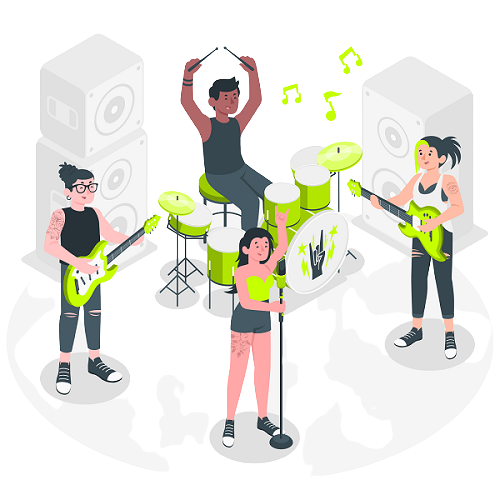
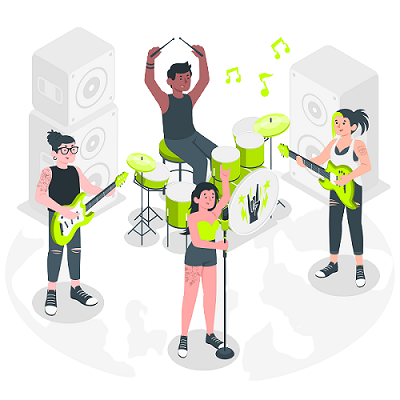
header section done

diff --git a/scss/main.css b/scss/main.css
@@ -81,7 +81,6 @@ a:hover {
 }
 .header-hero .header_hero_text {
   height: 80vh;
-  background: black;
   display: flex;
   justify-content: center;
   align-items: flex-start;
@@ -89,7 +88,7 @@ a:hover {
 }
 .header-hero .header_hero_text h2 {
   color: #fff;
-  font-size: 7rem;
+  font-size: 6.2rem;
   margin-bottom: 3rem;
   line-height: 150%;
   font-weight: 600;
@@ -139,4 +138,23 @@ a:hover {
   box-shadow: 0rem 1.5rem 2rem rgba(255, 255, 157, 0.4);
   color: #0a183d;
   transform: translateY(-0.7rem);
+}
+.header-hero .header_hero_img {
+  height: 77vh;
+  display: flex;
+  justify-content: center;
+  align-items: flex-end;
+  flex-direction: column;
+  animation: animation_hero 10s linear infinite alternate;
+}
+@keyframes animation_hero {
+  from {
+    transform: scale(0.9);
+  }
+  to {
+    transform: scale(1);
+  }
+}
+.header-hero .header_hero_img img {
+  filter: drop-shadow(0 1.5rem 1rem rgba(0, 0, 0, 0.8));
 }/*# sourceMappingURL=main.css.map */

diff --git a/scss/main.scss b/scss/main.scss
@@ -90,13 +90,12 @@ a:hover{
     & .header_hero_text {
         // width: inherit;
         height: 80vh;
-        background: black;
         @include content_center(flex-start);
 
 
         & h2 {
             color: $text-color;
-            font-size: 7rem;
+            font-size: 6.2rem;
             margin-bottom: 3rem;
             line-height: 150%;
             font-weight: 600;
@@ -137,4 +136,25 @@ a:hover{
             }
         }
     }
+// image hero part starts
+
+& .header_hero_img{
+    height: 77vh;
+    @include content_center(flex-end);
+    animation: animation_hero 10s linear infinite alternate;
+
+    @keyframes animation_hero {
+        from{
+            transform: scale(0.9);
+        }
+        to{
+            transform: scale(1);
+        }
+    }
+
+    & img {
+        filter: drop-shadow(0 1.5rem 1rem rgba(0, 0, 0, 0.8));
+    }
+}
+
 }

diff --git a/index.html b/index.html
@@ -67,8 +67,8 @@
                 </div>
                 <!-- right side images -->
                 <div class="col-lg-6 col-10 mx-auto">
-                    <figure>
-                        <img src="./Rock_band-amico.png" alt="">
+                    <figure class="header_hero_img">
+                        <img class="img-fluid" src="./Rock_band-bro.png" alt="">
                     </figure>
                 </div>
             </div>
